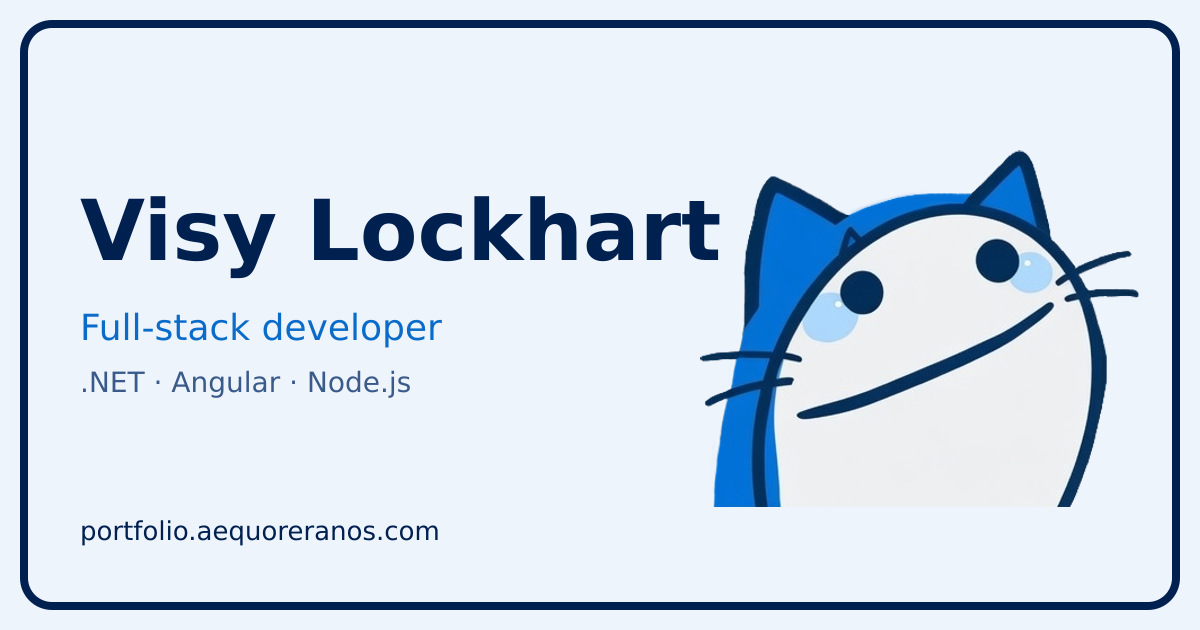
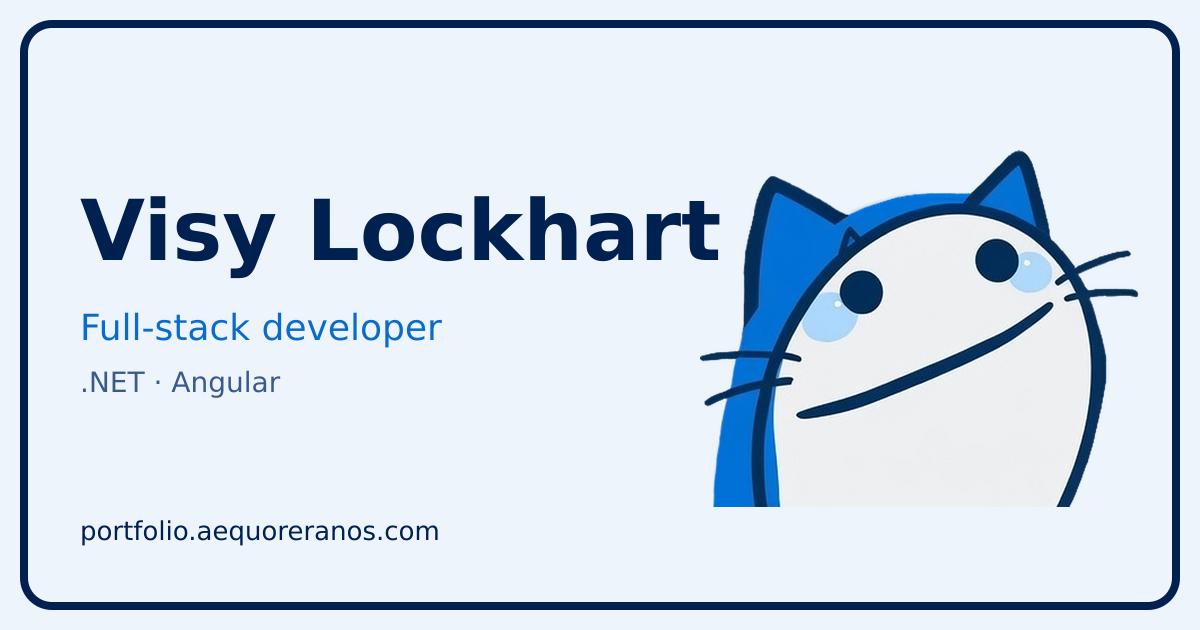
fix: lead with .NET, drop Node.js from the site title, OG image and profile skills
Claude-Session: https://claude.ai/code/session_01AJCGD1CpgHQfLXstRVjNNZ

diff --git a/src/i18n/content.ts b/src/i18n/content.ts
@@ -46,7 +46,7 @@ const zh = {
     breadcrumbHome: '首頁',
   },
   home: {
-    title: 'Visy Lockhart — 全端開發者(.NET · Angular · Node.js)作品集',
+    title: 'Visy Lockhart — 全端開發者(.NET · Angular)作品集',
     description:
       '7 年以上 .NET 後端與全端經驗。作品:Eranaut(Angular PWA + Fastify + OCR + Docker 自架上線)、Eranarch(Discord bot)、Unity 小型遊戲 demo。',
     badge: '全端開發 · Full-stack',
@@ -313,7 +313,7 @@ const en: Content = {
     breadcrumbHome: 'Home',
   },
   home: {
-    title: 'Visy Lockhart — Full-stack developer portfolio (.NET · Angular · Node.js)',
+    title: 'Visy Lockhart — Full-stack developer portfolio (.NET · Angular)',
     description:
       '7+ years of .NET backend and full-stack experience. Projects: Eranaut (Angular PWA + Fastify + OCR, self-hosted with Docker), Eranarch (Discord bot) and a small Unity game demo.',
     badge: 'Full-stack · 全端開發',

diff --git a/src/i18n/jsonld.ts b/src/i18n/jsonld.ts
@@ -15,7 +15,7 @@ export function personGraph(lang: Lang): Record<string, unknown>[] {
       jobTitle: lang === 'en' ? 'Full-stack developer' : '全端開發者',
       description: c.home.description,
       sameAs: [GITHUB],
-      knowsAbout: ['.NET', 'ASP.NET Core', 'Angular', 'TypeScript', 'Node.js', 'Docker', 'Unity'],
+      knowsAbout: ['.NET', 'ASP.NET Core', 'Angular', 'TypeScript', 'Docker', 'Unity'],
     },
     {
       '@context': 'https://schema.org',
